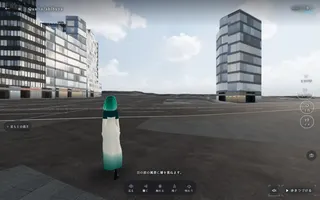
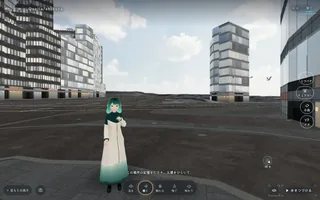
2026-11-20: Qualia/shibuya 立ち止まって話すとき手のひらを差し出す身ぶり・足もとの高さをひらく間は字幕を隠す・HP のカードの画（碧が正面で説明する場面）／Qualia/lens 顔を上げる画面の下を透かさない・耳の帯の見出しを読める濃さに

diff --git a/x/14/index.html b/x/14/index.html
@@ -25,7 +25,7 @@ const v = setInterval(() => { if (window.__qw) { clearInterval(v); const l = doc
 {"imports": {"three": "./web/vendor/hikawa-runtime-170-355.js", "@pixiv/three-vrm": "./web/vendor/hikawa-runtime-170-355.js", "three/addons/loaders/GLTFLoader.js": "./web/vendor/hikawa-runtime-170-355.js", "three/addons/libs/meshopt_decoder.module.js": "./web/vendor/hikawa-runtime-170-355.js", "three/addons/utils/BufferGeometryUtils.js": "./web/kit/BufferGeometryUtils.js"}}
 </script>
 <!-- 2026-10-26 起動 5 秒：本体と部品・中身の表を HTML と同時に読みはじめる（回線の往復を 2 段へらす） -->
-<link rel="modulepreload" href="web/app/app.js?v=20261120n">
+<link rel="modulepreload" href="web/app/app.js?v=20261120p">
 <!-- 2026-11-05 起動 2 秒（大宮と同じ）：本体が読む部品をすべて HTML と同時に・版は本体の import とそろえる -->
 <link rel="modulepreload" href="web/app/layers.js?v=k5">
 <link rel="modulepreload" href="web/app/qmarks.js?v=k19s7">
@@ -756,7 +756,7 @@ html:not(.qmap) #qEye{display:none}
 <script>if(!window.WebGLRenderingContext){document.body.insertAdjacentHTML("beforeend",'<p style="position:fixed;inset:auto 16px 40% 16px;text-align:center;line-height:1.8">この端末では 3D を表示できません。</p>');window.MLLoader&&MLLoader.done();}</script>
 <script type="module">
 const t = setInterval(() => { const q = window.__qw; if (q && q.ready) { clearInterval(t); window.MLLoader && MLLoader.done(); } }, 60);
-import("./web/app/app.js?v=20261120n").catch(e => { console.error(e); window.MLLoader && MLLoader.done(); });
+import("./web/app/app.js?v=20261120p").catch(e => { console.error(e); window.MLLoader && MLLoader.done(); });
 /* 11-04 本人：環世界に入るのはリアルな生き物だけ（変身はやめた）＝右の 4 つを押すと、その生き物の目のまま歩ける（kit/ikimono.js・大宮と同じ） */
 { const h = setInterval(() => { const q = window.__qw; if (q && q.ready && q.camera) { clearInterval(h); import("./web/kit/ikimono.js?v=20261118k").then(m => m.attachIkimono(q, { speak: l => q.speak?.(l) })).then(() => import("./web/app/senses6.js?v=16")).then(s6 => { q.S6 = s6.mountSenses(q); }).catch(e => console.warn("ikimono", e)); } }, 300); }
 </script>

diff --git a/x/14/web/app/app.js b/x/14/web/app/app.js
@@ -1220,7 +1220,9 @@ function playNext() {
   if (!soundOn || !l.f) { next(Math.max(3200, l.t.length * 160 + 1200))   /* 10-28 晩：読める長さ */; return; }
   audio.src = l.f; audio.currentTime = 0;
   if (AOI.m && v.i === 0) AOI.m.express?.("warm", .5, Math.min(6, (l.dur || 3) + 1));
-  audio.play().then(() => { AOI.m?.speak({ timeline: LIP[l.id] || null, text: l.t, dur: l.dur, clock: () => audio.currentTime }); }).catch(() => next(1500));
+  audio.play().then(() => { const sp = { timeline: LIP[l.id] || null, text: l.t, dur: l.dur, clock: () => audio.currentTime }; AOI.m?.speak(sp);
+    /* 11-20 本人「説明しているようなそぶり」：立ち止まって話すとき、言葉から身ぶりが出なかった行は、二行に一度、手のひらを差し出す身ぶり（共通部品 AoiMotion の present）を添える */
+    if (AOI.m && !WALK.moving && !(AOI.m.lastGestures || []).length && (l.dur || 0) > 1.6 && (AOI.gN = (AOI.gN || 0) + 1) % 2 === 1) AOI.m.speak({ ...sp, gesture: [{ t: .3, type: "metaphoric", shape: "present" }] }); }).catch(() => next(1500));
   audio.onended = () => { if (voiceQ !== v) return; AOI.m?.stopSpeaking(); next(420); };
   { const i0 = v.i; setTimeout(() => { if (voiceQ === v && v.i === i0 && !audio.ended && (audio.paused || audio.currentTime < .05)) { AOI.m?.stopSpeaking(); v.i++; playNext(); } }, ((l.dur || 3) + 4) * 1000); }   // 10-29：声の読み込みが止まっても、語りが黙ったまま止まらない
 }
